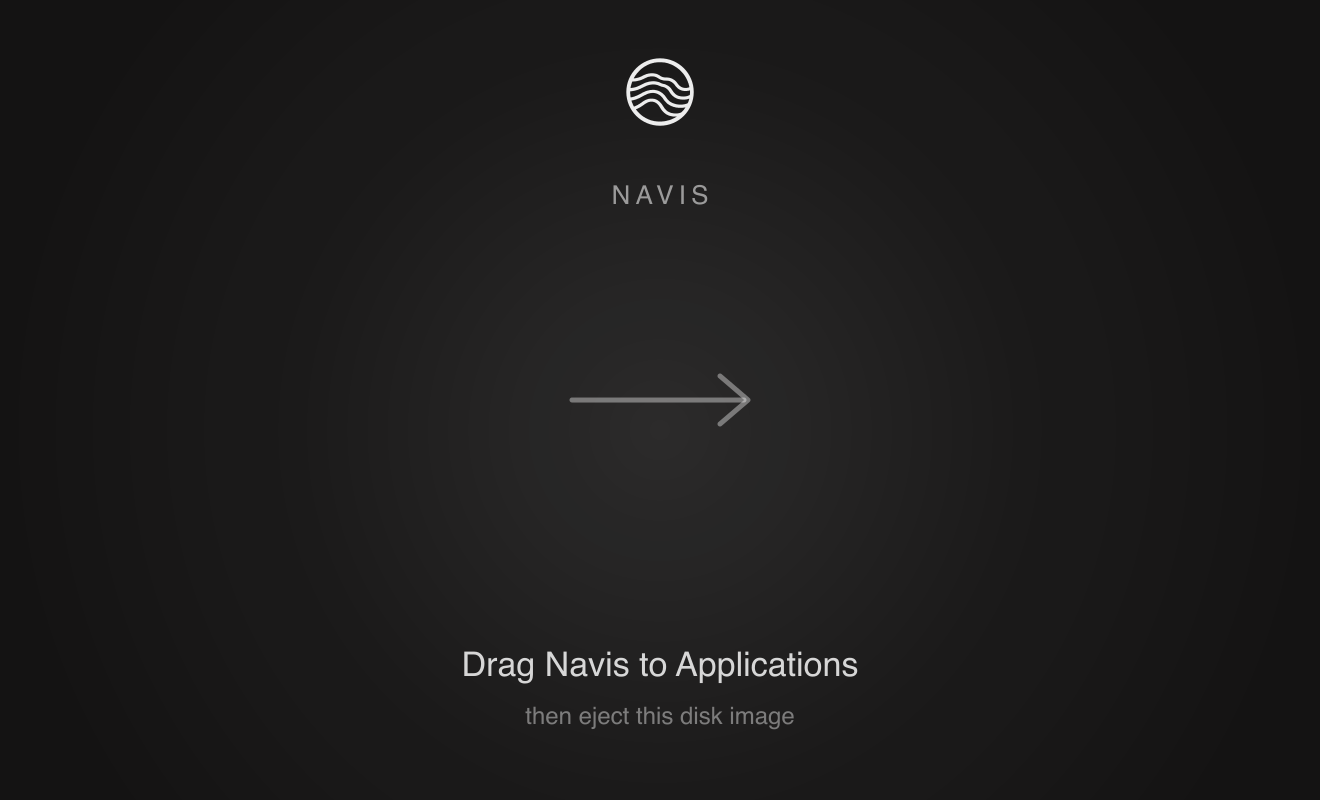
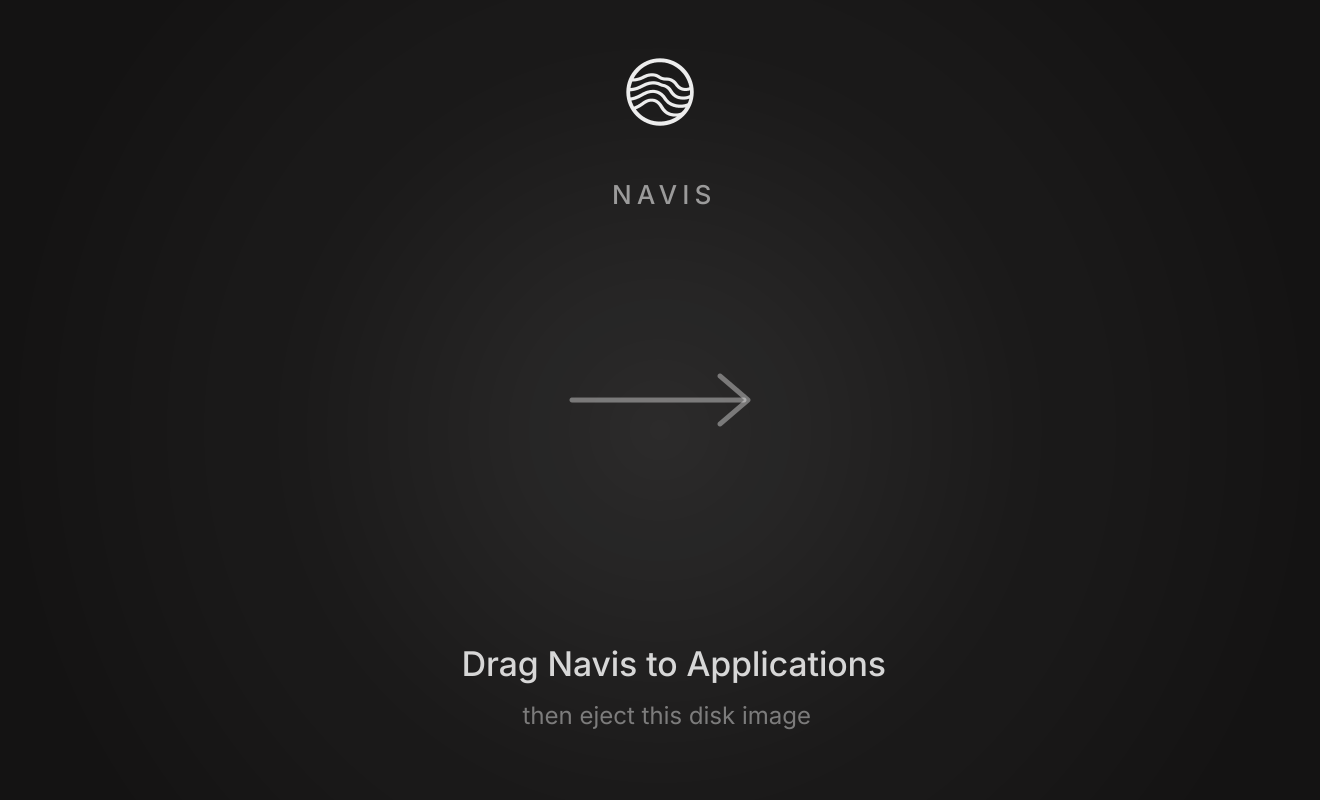
fix(macos): harden DMG release wiring and tests (#790)

Changed region(s): [[0.3417, 0.8125, 0.6833, 0.9062], [0.4659, 0.2188, 0.5591, 0.25]]

diff --git a/docs/release/release-macos.md b/docs/release/release-macos.md
@@ -237,7 +237,9 @@ Asset naming: `navis-dev-v0.x.y-macos.zip`
    staples → packages with `ditto`.
 4. **Without `--macos-notarize`:** packages with `ditto -c -k --keepParent`.
 5. Builds `navis-v0.x.y-macos.dmg` from the same app with `tool/macos_dmg.sh` (see
-   [DMG for first installs](#dmg-for-first-installs)).
+   [DMG for first installs](#dmg-for-first-installs)). This step scripts Finder, so it needs
+   a logged-in desktop session (and Automation permission for Finder); an SSH or
+   locked-screen release must pass `--no-macos-dmg`, which skips it with a notice.
 6. Bumps `pubspec.yaml`, commits, tags, pushes.
 7. Uploads `navis-v0.x.y-macos.zip` to R2 and publishes the signed channel manifest
    (manifest key `macosBundle`). The DMG is uploaded next to it and listed in
@@ -265,10 +267,12 @@ unaffected.
   Without the two options the DMG is unsigned (internal builds).
 - **Art:** `assets/macos/dmg/background.svg` (660x400 pt: `#141313` base, soft glow in the
   default white accent, the Navis mark, Inter text). The committed PNGs are rendered with
-  `FONTCONFIG_FILE=$PWD/assets/macos/dmg/fonts.conf` so Inter loads from `assets/fonts`; from
+  `FONTCONFIG_FILE=$PWD/assets/macos/dmg/fonts.conf` and `PANGOCAIRO_BACKEND=fc` so Inter loads
+  from `assets/fonts` (the default CoreText backend on macOS ignores fontconfig and silently
+  falls back to Helvetica); from
   the repo root:
   ```bash
-  cd assets/macos/dmg && export FONTCONFIG_FILE=$PWD/fonts.conf && \
+  cd assets/macos/dmg && export FONTCONFIG_FILE=$PWD/fonts.conf PANGOCAIRO_BACKEND=fc && \
     rsvg-convert -w 660 -h 400 background.svg -o background.png && \
     rsvg-convert -w 1320 -h 800 background.svg -o background@2x.png
   ```
@@ -276,7 +280,7 @@ unaffected.
   `tool/macos_dmg.sh`; change them together.
 - **Install (users):** open the DMG, drag Navis onto Applications, eject the disk image, then
   open Navis from Applications.
-- **Test:** `bash tool/macos_dmg_test.sh` (allowlist and manifest-key wiring).
+- **Test:** `bash tool/macos_dmg_test.sh` (staged-bundle allowlist and manifest-key helpers; no hdiutil needed). `bash tool/dev_release_test.sh` covers the DMG upload, its absence from the signed manifest and its `SHA256SUMS` line against a fake R2.
 
 ---
 
